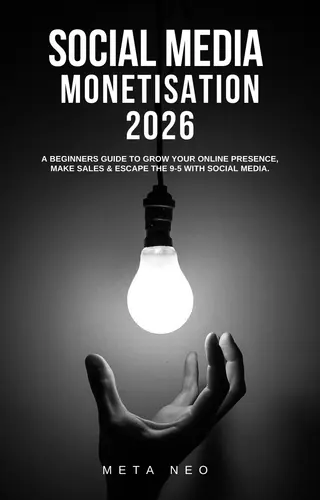
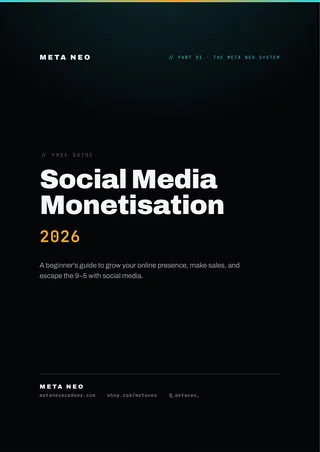
Use the current free guide's own cover, and fix two chapter lists
The cover on the site was the old lightbulb artwork from the previous edition.
The guide Casey sent has a different cover: its own page 1, dark and
typographic. For the three paid books the site already works this way, taking
the cover straight from page 1 of the PDF, so the free guide was the odd one
out.

Regenerated every variant from page 1 at 300dpi, keeping all seven filenames so
no markup had to change. The ratio moves from 0.64 to 0.707, because the new
cover is the A4 page rather than a book-shaped mockup, so the intrinsic width
and height attributes on free.html and index.html are updated to match. Without
that the browser reserves the wrong space and the page jumps as the image
loads. Every file is smaller than the one it replaces: flat typography
compresses better than a photograph.

share-monetisation.jpg, which is what appears when the free guide is shared,
was still the lightbulb too. Centring the new portrait cover in a 1200x630
frame left most of the card empty and the type too small to read in a feed, so
it is now a landscape crop of the cover's title block. Same artwork, same
fonts, readable at the size it is actually seen.

Two chapter lists on ebooks.html also corrected against the books:

The Algorithm Decoded drops to 14 entries. "Stuck at 200 views" was listed as a
chapter but page 10 is a continuation of Step 3, carrying the same kicker and
having no row on the book's own contents page. It now reads "Boost, retry or
[…]

diff --git a/ebooks.html b/ebooks.html
@@ -233,18 +233,15 @@
         <p class="bc-tag">// What you'll learn</p>
         <p class="bc-hook"><strong style="color:var(--ink)">The problem it fixes:</strong> you post a lot, but it never turns into leads or sales. This book gives you one simple, repeatable system on a single platform that turns your posts into people who message you and buy.</p>
         <ul class="ch-list">
-          <li class="ch-item"><span class="ch-n">[01]</span><div class="ch-text"><strong>The 4-step platform filter</strong></div></li>
-          <li class="ch-item"><span class="ch-n">[02]</span><div class="ch-text"><strong>Hero content type per platform</strong></div></li>
-          <li class="ch-item"><span class="ch-n">[03]</span><div class="ch-text"><strong>Audience filter</strong></div></li>
-          <li class="ch-item"><span class="ch-n">[04]</span><div class="ch-text"><strong>Tiebreaker scales and leaderboard</strong></div></li>
-          <li class="ch-item"><span class="ch-n">[05]</span><div class="ch-text"><strong>Decision worksheet</strong></div></li>
-          <li class="ch-item"><span class="ch-n">[06]</span><div class="ch-text"><strong>7-step engine</strong></div></li>
-          <li class="ch-item"><span class="ch-n">[07]</span><div class="ch-text"><strong>Quality/quantity accordion</strong></div></li>
-          <li class="ch-item"><span class="ch-n">[08]</span><div class="ch-text"><strong>Comment-to-DM</strong></div></li>
-          <li class="ch-item"><span class="ch-n">[09]</span><div class="ch-text"><strong>Keyword lead capture</strong></div></li>
-          <li class="ch-item"><span class="ch-n">[10]</span><div class="ch-text"><strong>Email sequence</strong></div></li>
-          <li class="ch-item"><span class="ch-n">[11]</span><div class="ch-text"><strong>One video, all the way to money</strong></div></li>
-          <li class="ch-item"><span class="ch-n">[12]</span><div class="ch-text"><strong>30-day plan</strong></div></li>
+                    <li class="ch-item"><span class="ch-n">[01]</span><div class="ch-text"><strong>Where to play: the 4-step filter</strong></div></li>
+          <li class="ch-item"><span class="ch-n">[02]</span><div class="ch-text"><strong>Filter 1: lay out every option</strong></div></li>
+          <li class="ch-item"><span class="ch-n">[03]</span><div class="ch-text"><strong>Filter 2: each platform&rsquo;s hero content type</strong></div></li>
+          <li class="ch-item"><span class="ch-n">[04]</span><div class="ch-text"><strong>Filter 3: where your buyers actually are</strong></div></li>
+          <li class="ch-item"><span class="ch-n">[05]</span><div class="ch-text"><strong>Filter 4: the tiebreaker</strong></div></li>
+          <li class="ch-item"><span class="ch-n">[06]</span><div class="ch-text"><strong>Your platform decision (worksheet)</strong></div></li>
+          <li class="ch-item"><span class="ch-n">[07]</span><div class="ch-text"><strong>Build the engine: research, remix, accordion, consistency, comments, capture, sell</strong></div></li>
+          <li class="ch-item"><span class="ch-n">[08]</span><div class="ch-text"><strong>One video, all the way to money</strong></div></li>
+          <li class="ch-item"><span class="ch-n">[09]</span><div class="ch-text"><strong>Your first 30 days</strong></div></li>
         </ul>
         <div class="ch-quote"><p>"A weak fisherman in a pond full of fish will eat better than an expert fisherman in an empty one."</p><cite>— FROM THE CONTENT ENGINE PLAYBOOK</cite></div>
       </div>
@@ -264,21 +261,20 @@
         <p class="bc-tag">// What you'll learn</p>
         <p class="bc-hook"><strong style="color:var(--ink)">The problem it fixes:</strong> you post good stuff, but barely anyone sees it. This book explains, in plain English, how the app decides who sees your posts and how to get shown to far more people.</p>
         <ul class="ch-list">
-          <li class="ch-item"><span class="ch-n">[01]</span><div class="ch-text"><strong>Real results from a Pilates studio</strong></div></li>
+                    <li class="ch-item"><span class="ch-n">[01]</span><div class="ch-text"><strong>Real results from a Pilates studio</strong></div></li>
           <li class="ch-item"><span class="ch-n">[02]</span><div class="ch-text"><strong>The matchmaker</strong></div></li>
           <li class="ch-item"><span class="ch-n">[03]</span><div class="ch-text"><strong>Digital fingerprint</strong></div></li>
           <li class="ch-item"><span class="ch-n">[04]</span><div class="ch-text"><strong>The 200-person test</strong></div></li>
-          <li class="ch-item"><span class="ch-n">[05]</span><div class="ch-text"><strong>Boost, retry, stop</strong></div></li>
-          <li class="ch-item"><span class="ch-n">[06]</span><div class="ch-text"><strong>Stuck at 200 views</strong></div></li>
-          <li class="ch-item"><span class="ch-n">[07]</span><div class="ch-text"><strong>2-step hack</strong></div></li>
-          <li class="ch-item"><span class="ch-n">[08]</span><div class="ch-text"><strong>Fit score</strong></div></li>
-          <li class="ch-item"><span class="ch-n">[09]</span><div class="ch-text"><strong>The 3 numbers</strong></div></li>
-          <li class="ch-item"><span class="ch-n">[10]</span><div class="ch-text"><strong>4 Horsemen</strong></div></li>
-          <li class="ch-item"><span class="ch-n">[11]</span><div class="ch-text"><strong>5 ways to get comments</strong></div></li>
-          <li class="ch-item"><span class="ch-n">[12]</span><div class="ch-text"><strong>Cake and icing</strong></div></li>
-          <li class="ch-item"><span class="ch-n">[13]</span><div class="ch-text"><strong>Outlier research</strong></div></li>
-          <li class="ch-item"><span class="ch-n">[14]</span><div class="ch-text"><strong>Pre-post checklist</strong></div></li>
-          <li class="ch-item"><span class="ch-n">[15]</span><div class="ch-text"><strong>10-video tracker</strong></div></li>
+          <li class="ch-item"><span class="ch-n">[05]</span><div class="ch-text"><strong>Boost, retry or stop (why you&rsquo;re stuck at 200 views)</strong></div></li>
+          <li class="ch-item"><span class="ch-n">[06]</span><div class="ch-text"><strong>2-step hack</strong></div></li>
+          <li class="ch-item"><span class="ch-n">[07]</span><div class="ch-text"><strong>Fit score</strong></div></li>
+          <li class="ch-item"><span class="ch-n">[08]</span><div class="ch-text"><strong>The 3 numbers</strong></div></li>
+          <li class="ch-item"><span class="ch-n">[09]</span><div class="ch-text"><strong>4 Horsemen</strong></div></li>
+          <li class="ch-item"><span class="ch-n">[10]</span><div class="ch-text"><strong>5 ways to get comments</strong></div></li>
+          <li class="ch-item"><span class="ch-n">[11]</span><div class="ch-text"><strong>Cake and icing</strong></div></li>
+          <li class="ch-item"><span class="ch-n">[12]</span><div class="ch-text"><strong>Steal from what&rsquo;s already working</strong></div></li>
+          <li class="ch-item"><span class="ch-n">[13]</span><div class="ch-text"><strong>Pre-post checklist</strong></div></li>
+          <li class="ch-item"><span class="ch-n">[14]</span><div class="ch-text"><strong>10-video tracker</strong></div></li>
         </ul>
         <div class="ch-quote"><p>"The algorithm is not your enemy. It is a machine with a single job — match content with the viewers most likely to watch it."</p><cite>— FROM THE ALGORITHM DECODED</cite></div>
       </div>

diff --git a/index.html b/index.html
@@ -818,7 +818,7 @@
     <p class="micro reveal">Secure checkout on Whop · instant download · one-time payment</p>
 
     <div class="freestrip reveal">
-      <picture><source srcset="cover-monetisation-176.webp 176w, cover-monetisation-320.webp 320w, cover-monetisation-560.webp 560w" sizes="(max-width:620px) 97px, 158px" type="image/webp"><img src="cover-monetisation-400.png" alt="Social Media Monetisation 2026" width="400" height="625" loading="lazy"></picture>
+      <picture><source srcset="cover-monetisation-176.webp 176w, cover-monetisation-320.webp 320w, cover-monetisation-560.webp 560w" sizes="(max-width:620px) 97px, 158px" type="image/webp"><img src="cover-monetisation-400.png" alt="Social Media Monetisation 2026" width="400" height="566" loading="lazy"></picture>
       <div>
         <p class="fl2">Not convinced?</p>
         <h3>Then don’t buy anything.</h3>

diff --git a/free.html b/free.html
@@ -84,7 +84,7 @@
 <div class="free-grid">
 
 <div class="free-cover-col">
-<picture><source srcset="cover-monetisation-320.webp 320w, cover-monetisation-560.webp 560w, cover-monetisation.webp 760w" sizes="(max-width:760px) 220px, 360px" type="image/webp"><img class="free-cover" src="cover-monetisation-760.png" alt="Social Media Monetisation 2026 guide cover" width="760" height="1188" fetchpriority="high"></picture>
+<picture><source srcset="cover-monetisation-320.webp 320w, cover-monetisation-560.webp 560w, cover-monetisation.webp 760w" sizes="(max-width:760px) 220px, 360px" type="image/webp"><img class="free-cover" src="cover-monetisation-760.png" alt="Social Media Monetisation 2026 guide cover" width="760" height="1075" fetchpriority="high"></picture>
 </div>
 
 <div class="free-content-col">
